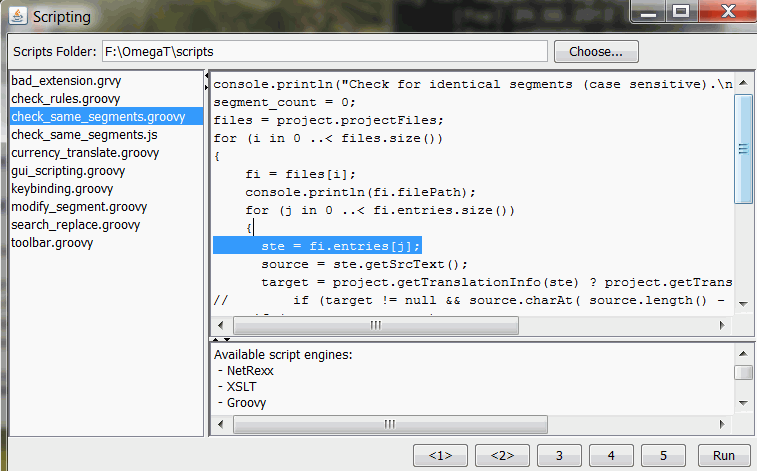
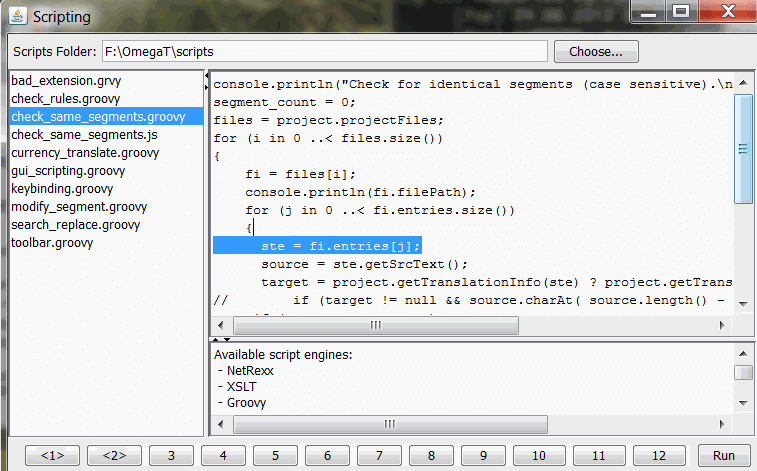
Fix scripting documentation (follow-up to RFE #843 Allow 12 scripts in the Tools menu)

Changed region(s): [[0.0304, 0.9214, 0.9115, 1.0]]

diff --git a/docs/en/appendix.ScriptingPlugin.inOmegaT.html b/docs/en/appendix.ScriptingPlugin.inOmegaT.html
@@ -69,7 +69,7 @@
             </p>
             <p>This adds a new submenu<span class="guisubmenu"> Tools &gt;
                       </span><span class="guisubmenu">Scripting.</span> Below the
-                   <span class="guisubmenu">Scripting</span> submenu , there's five place holders
+                   <span class="guisubmenu">Scripting</span> submenu , there's 12 place holders
                    available for scripts. Clicking <span class="guisubmenu">Scripting</span> opens
                    the Scripting dialog:
             </p>
@@ -92,7 +92,7 @@
             <div class="itemizedlist">
                <ul class="itemizedlist" style="list-style-type: disc; ">
                   <li class="listitem">
-                     <p>Right-click on a button from "&lt;1&gt;" to "&lt;5&gt;" in the
+                     <p>Right-click on a button from "&lt;1&gt;" to "&lt;12&gt;" in the
                                 bottom panel and select "Add". In the above example, two scripts
                                 (position 1 and 2) have already been added.
                      </p>
@@ -105,7 +105,7 @@
                      <p>When you left-click on the number, the selected script will run.
                                 You can start the selected macros from the main menu as well by using
                                 their entries in the <span class="guisubmenu">Tools </span>menu or by
-                                pressing<span class="keycap"><strong> Ctrl+Alt+F#</strong></span> (# 1 to 5).
+                                pressing<span class="keycap"><strong> Ctrl+Alt+F#</strong></span> (# 1 to 12).
                      </p>
                   </li>
                </ul>
